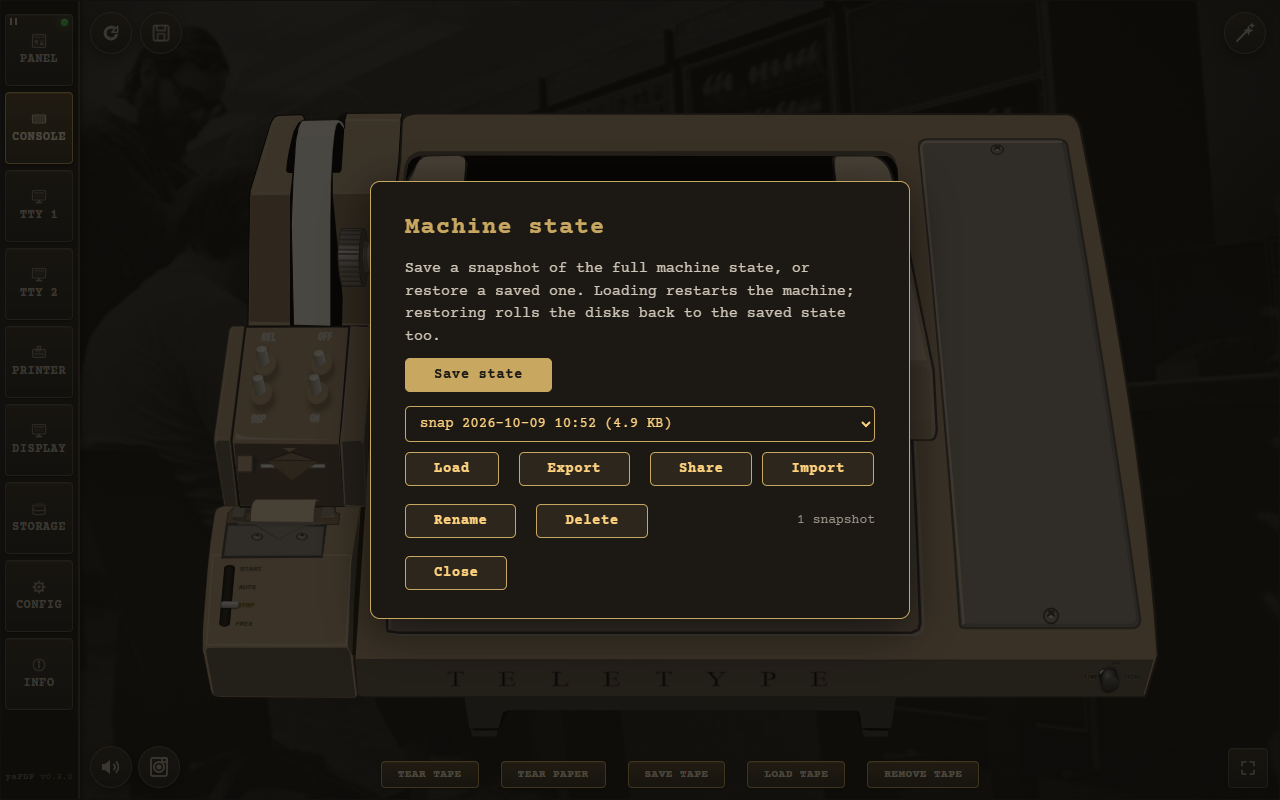
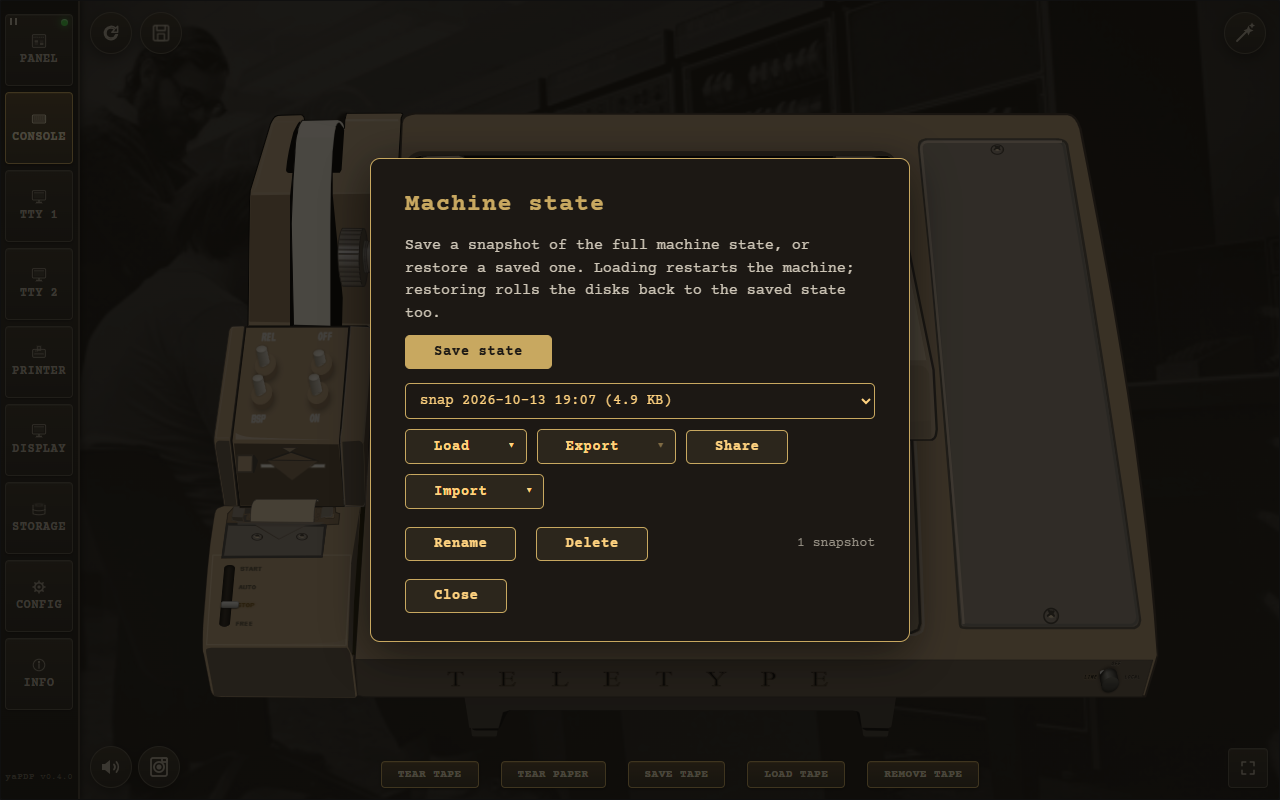
docs: add Gist dialog screenshot and documentation, update machine-state manual
- Added dialog-gist.png screenshot showing the GitHub Gist creation dialog
  with PAT input, show/hide/clear/info buttons, and Generate action.
- Updated docs/manual/machine-state.md (EN) and ru/machine-state.md (RU)
  with Gist dialog description and screenshot reference.  Share dialog
  screenshot precedes the Gist section (Gist is called from Share).
- Regenerated dialog-state.png and dialog-share.png to reflect the current
  UI (export/import split-buttons, share dialog with paste and split-btn).
- Added dialog-gist capture to tools/screenshots-manual.js (captureDialogs
  section) and fixed missing closing brace for the function.

diff --git a/tools/screenshots-manual.js b/tools/screenshots-manual.js
@@ -645,6 +645,47 @@ async function captureDialogs(browser, wants) {
         });
         await snap(page, "dialog-share.png", 900);
     }
+
+    // 10. Gist dialog — opened from the Share dialog's split-button menu.
+    if (wants("dialog-gist")) {
+        const page = await open(CFG_TTY);
+        // Open the state dialog and save a snapshot first.
+        await page.evaluate(() => {
+            const btn = document.getElementById("state-btn");
+            if (btn) btn.click();
+        });
+        await sleep(400);
+        await page.evaluate(() => {
+            const save = document.getElementById("snap-save");
+            if (save) save.click();
+        });
+        await sleep(1200);
+        // Select the snapshot and open the Share dialog.
+        await page.evaluate(() => {
+            const sel = document.getElementById("snap-select");
+            if (sel && sel.options.length) {
+                sel.selectedIndex = sel.options.length - 1;
+                sel.dispatchEvent(new Event("change", { bubbles: true }));
+            }
+        });
+        await sleep(300);
+        await page.evaluate(() => {
+            const share = document.getElementById("snap-share");
+            if (share && !share.disabled) share.click();
+        });
+        await sleep(500);
+        // Open the split-button menu and click "Create GitHub Gist…"
+        await page.evaluate(() => {
+            const moreBtn = document.getElementById("share-create-more");
+            if (moreBtn) moreBtn.click();
+        });
+        await sleep(200);
+        await page.evaluate(() => {
+            const gistBtn = document.getElementById("share-create-gist");
+            if (gistBtn) gistBtn.click();
+        });
+        await snap(page, "dialog-gist.png", 1200);
+    }
 }
 
 // Capture the VT11 Display page with Lunar Lander running. The quick-boot
@@ -759,7 +800,7 @@ async function captureVt11Lander(browser) {
             wants("dialog-snapshot-incompatible") ||
             wants("dialog-poweroff") || wants("dialog-config-leave") ||
             wants("dialog-reboot") || wants("dialog-state") ||
-            wants("dialog-share")) {
+            wants("dialog-share") || wants("dialog-gist")) {
             await captureDialogs(browser, wants);
         }
         if (wants("vt11")) {

diff --git a/docs/manual/ru/machine-state.md b/docs/manual/ru/machine-state.md
@@ -6,8 +6,15 @@
 Диалог состояния машины с одним только что сохранённым состоянием.
 
 - **Save state** — сохраняет машину ровно в том виде, в котором она сейчас, под автоматически созданным именем (дата и время). Аппаратная конфигурация входит в состояние: при восстановлении заново применяются тип консоли, пользовательские терминалы, принтер и дисплей VT11, а машина перезапускается им в соответствие.
-- **Load** — восстанавливает выбранное состояние и перезапускает машину; сначала запрашивается подтверждение. Состояния, сохранённые более старыми версиями эмулятора, продолжают работать.
-- **Export / Import** — выгрузить состояние в файл `.state` или принять состояние из файла, который вам прислали. Импортированный файл встаёт в список как обычное состояние.
+- **Load** — восстанавливает выбранное состояние и перезапускает машину; сначала запрашивается подтверждение. Состояния, сохранённые более старыми версиями эмулятора, продолжают работать. У кнопки **Load** есть выпадающее меню с пунктом **Load as shared state** для загрузки текстового конверта `.state.txt`.
+- **Export** — сплит-кнопка с тремя опциями:
+  - **Export** (основное действие) — скачивает выбранное состояние как бинарный файл `.state.zst`.
+  - **Save as text file** — кодирует состояние в текстовый конверт (`.state.txt`), который можно передавать через каналы, не поддерживающие бинарные вложения.
+  - **Copy text to clipboard** — копирует текстовый конверт прямо в системный буфер обмена.
+- **Import** — сплит-кнопка с тремя опциями:
+  - **Import** (основное действие) — открывает диалог выбора файла `.state.zst`, `.state` или `.state.txt` с диска.
+  - **Import from clipboard** — читает текстовый конверт из буфера обмена и декодирует его.
+  - **Import from URL** — запрашивает URL, загружает файл состояния по сети и импортирует его.
 - **Share** — превратить состояние в файл, который можно передать другому человеку; что нужно, чтобы файл работал, — в подразделе «Передача состояния» ниже.
 - **Rename / Delete** — упорядочить список или удалить состояния; счётчик рядом со списком показывает, сколько состояний сохранено.
 
@@ -24,12 +31,36 @@
 **Share**. Диалог спросит слова, которые увидит получатель: **Title** (заголовок), **Description**
 (описание), **Button label** (подпись на кнопке в сообщении, которое он прочитает перед получением
 управления), **Screenshot** (снимок экрана) и **Run after restore** — команду, которая сама наберётся
-в госте после возврата машины (например, `RUN SPCINV`). Кнопка **Create Shareable State** сохраняет
-файл `.state.zst` на ваш компьютер.
+в госте после возврата машины (например, `RUN SPCINV`).
+
+Поле **Screenshot** принимает изображение, вставленное из буфера обмена (**Ctrl+V**), или выбранное
+через диалог выбора файла. После прикрепления показывается превью; кнопка **Remove** убирает его.
 
 ![Диалог Share](assets/images/manual/dialog-share.png)
 
-Диалог Share: задайте состоянию заголовок, описание и подсказку по клавишам для получателя.
+Диалог Share: задайте состоянию заголовок, описание, снимок экрана и команду для выполнения после восстановления.
+
+Кнопка **Create Shareable State** — это сплит-кнопка с дополнительными опциями:
+- **Copy text to clipboard** — копирует текстовый конверт состояния в буфер обмена.
+- **Save as text file** — скачивает текстовый конверт как файл `.state.txt`.
+- **Share via platform…** — использует встроенный механизм публикации браузера (Web Share API).
+- **Create GitHub Gist…** — открывает диалог Gist для создания **секретного** Gist на GitHub с
+  состоянием машины. Потребуется GitHub Personal Access Token с областью `gist`.
+
+  ![Диалог Gist](assets/images/manual/dialog-gist.png)
+
+  Диалог Gist: введите токен GitHub и создайте ссылку для публикации.{.shot-caption}
+
+  Диалог Gist предоставляет:
+  - Поле ввода **PAT**, скрытое по умолчанию.
+  - Кнопку **показать/скрыть** (&#9679; / #) для раскрытия или маскировки токена.
+  - Кнопку **очистить сохранённый токен** для удаления токена из локального хранилища.
+  - Кнопку **информация** (i) с инструкцией по созданию PAT.
+  - Кнопку **Generate**, которая публикует состояние на GitHub и возвращает ссылку.
+  - Сгенерированную ссылку можно **скопировать**, **проверить** в новой вкладке или **опубликовать**
+    через платформу.
+
+Кнопка **Cancel** расположена отдельно от кнопок действий.
 
 Выложите этот файл туда, где он будет доступен по URL, и отправьте ссылку. На успех влияют две вещи:
 
@@ -47,3 +78,11 @@
 строке остаётся параметр `?state=`, чтобы было видно, что именно запрашивалось. Если ссылка не
 может работать вовсе — состояние лежит там, откуда его не получить, — остаётся сам файл:
 **Import** принимает любой файл `.state` или `.state.zst` с диска, без сервера и без CORS.
+
+### Диалог восстановления конфигурации
+
+Когда сохранённое состояние несёт собственную аппаратную конфигурацию (тип консоли, терминалы,
+принтер, дисплей VT11), при восстановлении появляется вопрос: **Reset** (сбросить вашу конфигурацию
+на ту, что была в состоянии) или **Keep** (оставить ваши текущие настройки). Этот диалог появляется
+автоматически после восстановления состояния или перед перезагрузкой, которая применит конфигурацию
+состояния.

diff --git a/docs/manual/machine-state.md b/docs/manual/machine-state.md
@@ -12,8 +12,15 @@ picture are all captured. Think of it as a save file of the whole machine.
 The machine-state dialog with one freshly saved state.{.shot-caption}
 
 - **Save state** — captures the machine exactly as it is right now under an auto-generated name (date and time). The hardware configuration is part of the state: restoring it re-applies the console type, user terminals, printer and VT11 display, restarting the machine to match.
-- **Load** — restores the selected state and restarts the machine; a confirmation asks first. States saved by older versions of the emulator keep working.
-- **Export / Import** — take a state out as a `.state` file, or bring one in from a file somebody sent you. An imported file joins the list like any other state.
+- **Load** — restores the selected state and restarts the machine; a confirmation asks first. States saved by older versions of the emulator keep working. The **Load** button has a dropdown with **Load as shared state** for loading a `.state.txt` envelope file.
+- **Export** — a split-button with three options:
+  - **Export** (main action) — downloads the selected state as a `.state.zst` binary file.
+  - **Save as text file** — encodes the state as a text envelope (`.state.txt`) that can be copied through channels that reject binary attachments.
+  - **Copy text to clipboard** — places the text envelope directly on the system clipboard.
+- **Import** — a split-button with three options:
+  - **Import** (main action) — opens a file picker for `.state.zst`, `.state` or `.state.txt` files from disk.
+  - **Import from clipboard** — reads a text envelope from the clipboard and decodes it.
+  - **Import from URL** — prompts for a URL, fetches the state file from the network and imports it.
 - **Share** — turn a state into a file you can hand to somebody else; the Sharing a state subsection below explains what the file needs to work.
 - **Rename / Delete** — organise the list or remove states; the counter next to the list shows how many states you have.
 
@@ -31,18 +38,41 @@ on your own host.
 **To share your own state:** open the machine-state dialog, pick a state and press **Share**. The
 dialog asks for the words the receiver will see — a **Title**, a **Description**, a **Button label**
 (for the message they read before they get control), a **Screenshot**, and a **Run after restore**
-command that types itself into the guest once the machine is back (e.g. `RUN SPCINV`). **Create
-Shareable State** then saves a `.state.zst` file to your computer.
+command that types itself into the guest once the machine is back (e.g. `RUN SPCINV`).
+
+The **Screenshot** field accepts an image pasted from the clipboard (**Ctrl+V**) or selected via a
+file picker. A preview is shown once an image is attached; a **Remove** button clears it.
 
 ![The Share dialog](assets/images/manual/dialog-share.png){.shot}
 
-The Share dialog: give the state a title, a description and the keys the receiver needs.{.shot-caption}
+The Share dialog: give the state a title, a description, a screenshot and optional post-restore command.{.shot-caption}
+
+The **Create Shareable State** button is a split-button with additional options:
+- **Copy text to clipboard** — copies the text envelope of the shareable state.
+- **Save as text file** — downloads the text envelope as a `.state.txt` file.
+- **Share via platform…** — uses the browser's native sharing mechanism (Web Share API).
+- **Create GitHub Gist…** — opens a Gist dialog that creates a **secret** Gist on GitHub with the
+  machine state. You need a GitHub Personal Access Token with the `gist` scope.
+
+  ![The Gist dialog](assets/images/manual/dialog-gist.png){.shot}
+
+  The Gist dialog: enter your GitHub token and generate a shareable link.{.shot-caption}
+
+  The Gist dialog provides:
+  - A **PAT input** field (masked by default) for your token.
+  - **Show/hide** toggle (&#9679; / #) to reveal or mask the token.
+  - **Clear saved token** button to remove the token from local storage.
+  - **Info** button (i) with instructions on creating a PAT.
+  - A **Generate** button that posts the state to GitHub and returns a shareable link.
+  - The generated link can be **copied**, **tested** in a new tab, or **shared** via the platform.
+
+A **Cancel** button is placed separately from the action buttons.
 
 Host that file anywhere reachable by a URL, then send the link. Two things decide whether it works:
 
 - **The host must allow the file to be read from another site** (the `Access-Control-Allow-Origin`
   header). A browser refuses to let this page read a file on another host that does not say so, and
-  the visitor then sees a “Shared state not restored” message naming the URL. Static hosts often do
+  the visitor then sees a "Shared state not restored" message naming the URL. Static hosts often do
   not send that header by default. The surest way to avoid the problem is to keep the file **next to
   the emulator** — on the same site — exactly as the states under `states/` are served.
 - **The receiver needs the same disk images.** A state does not carry its images, only a record of
@@ -54,3 +84,10 @@ When either condition fails the visitor is told in a dialog that names the URL, 
 keeps the `?state=` parameter so what was asked for stays visible. If a link cannot work at all — the
 state lives somewhere that cannot be fetched — the file itself is still the fallback: **Import** it
 takes any `.state` or `.state.zst` file from disk, with no server and no CORS involved.
+
+### Configuration restore dialog
+
+When a saved state carries its own hardware configuration (console type, terminals, printer, VT11
+display), restoring it asks whether you want to **Reset** your configuration to the state's own, or
+**Keep** your current settings. This dialog appears automatically after a state restore or before a
+reboot that would apply a state's configuration.
